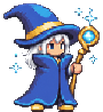
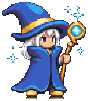
Add files via upload

diff --git a/js/arena.js b/js/arena.js
@@ -7,8 +7,8 @@ function arena(){if(arenaOn)return;arenaOn=true;load3(function(){
  var W=384,H=216,R;try{R=new THREE.WebGLRenderer({canvas:$("bcv"),antialias:false})}catch(e){$("bfb").hidden=false;$("bcv").hidden=true;return}
  R.setPixelRatio(1);R.setSize(W,H,false);R.setClearColor(0x05050f);R.autoClear=false;
  var sc=new THREE.Scene(),cam=new THREE.PerspectiveCamera(36,W/H,.1,100);cam.position.set(0,2.4,14);cam.lookAt(0,2.4,0);
- var TL=new THREE.TextureLoader(),T={},keys=["ruins","sheetKnight","sheetMage","sheetRanger","sheetRogue","dragon","dragon2"],left=keys.length;
- keys.forEach(function(k){TL.load(IMG[k],function(t){t.magFilter=t.minFilter=THREE.NearestFilter;t.generateMipmaps=false;T[k]=t;if(--left==0)go()})});
+ var TL=new THREE.TextureLoader(),T={},keys=["ruins","knightS","mageS","rangerS","rogueS","dragon","dragon2"],left=keys.length;
+ keys.forEach(function(k){TL.load(IMG[k],function(t){t.magFilter=t.minFilter=THREE.NearestFilter;t.generateMipmaps=false;if(/S$/.test(k))t.repeat.set(1/3,1/3);T[k]=t;if(--left==0)go()})});
  function ct(fn,w,h){var c=document.createElement("canvas");c.width=w;c.height=h;fn(c.getContext("2d"),w,h);var t=new THREE.CanvasTexture(c);t.magFilter=t.minFilter=THREE.NearestFilter;return t}
  function plane(map,w,h,o){var m=new THREE.Mesh(new THREE.PlaneGeometry(w,h),new THREE.MeshBasicMaterial(Object.assign({map:map,transparent:true,alphaTest:.04,side:THREE.DoubleSide},o||{})));sc.add(m);return m}
  function sp(k,h){var im=T[k].image;return plane(T[k],h*im.width/im.height,h)}
@@ -19,19 +19,10 @@ function arena(){if(arenaOn)return;arenaOn=true;load3(function(){
   g1.position.set(4.5,1.2,-5.9);g2.position.set(1,-1,-5.9);
   var shT=ct(function(g,w,h){g.fillStyle="rgba(0,0,0,.55)";g.beginPath();g.ellipse(w/2,h/2,w/2-1,h/2-1,0,0,6.3);g.fill()},32,8);
   var hsh=plane(shT,3,.7),dsh=plane(shT,6,1.1);
-  var HX=-3.6,DX=3.8,DY=2.1,FL=-1.2,HH={knight:3.6,mage:3.2,ranger:3.6,rogue:3.4},hs={};
-  /* Heroes: every hero is one 256px frame of a 3x3 sprite sheet (assets/images/sheet-*.png) drawn onto a canvas texture.
-     feet / top / cx = where the character stands inside a frame (pixels). flip = the sheet faces left, so mirror it. */
-  var HERO={knight:{sheet:"sheetKnight",feet:227,top:138,cx:126.5,flip:1},mage:{sheet:"sheetMage",feet:209,top:116,cx:126.5},
-   ranger:{sheet:"sheetRanger",feet:210,top:128,cx:128.5},rogue:{sheet:"sheetRogue",feet:211,top:110,cx:128.5}};
-  function drawFrame(k,f){var H=HERO[k];if(H.f===f)return;H.f=f;var g=H.g;g.clearRect(0,0,256,256);g.save();if(H.flip){g.translate(256,0);g.scale(-1,1)}
-   g.drawImage(H.img,(f%3)*256,Math.floor(f/3)*256,256,H.feet+2,0,0,256,H.feet+2);g.restore();H.tex.needsUpdate=true}   /* rows below the feet (a mirror reflection in the art) are left out */
-  function pxY(k,r){return FL+(HERO[k].feet-r)*HERO[k].s}            /* world height of a pixel row in a frame */
-  function pxX(k,x,hx){return hx+(x-HERO[k].cx)*HERO[k].s}           /* world x of a pixel column when the hero stands at hx */
-  Object.keys(HERO).forEach(function(k){var H=HERO[k],c=document.createElement("canvas");c.width=c.height=256;H.g=c.getContext("2d");H.img=T[H.sheet].image;
-   H.tex=new THREE.CanvasTexture(c);H.tex.magFilter=H.tex.minFilter=THREE.NearestFilter;H.tex.generateMipmaps=false;
-   H.s=HH[k]/(H.feet-H.top);H.ox=(128-H.cx)*H.s;H.oy=((H.feet+H.top)/2-128)*H.s;H.f=-1;
-   hs[k]=plane(H.tex,256*H.s,256*H.s);hs[k].visible=false;drawFrame(k,0)});
+  var HX=-4.2,DX=3.8,DY=2.1,FL=-1.2,HH={knight:3.6,mage:3.2,ranger:3.6,rogue:3.4},hs={};
+  /* Heroes are 3x3 sprite sheets (9 attack frames, effects drawn in). CS = [character px height, centre x, feet y] inside one 256px cell, so the feet land on the floor. */
+  var CS={knight:[90,128,228],mage:[97,126,213],ranger:[85,128,213],rogue:[104,128,214]},PO={};
+  ["knight","mage","ranger","rogue"].forEach(function(k){var c=CS[k],Z=HH[k]*256/c[0];hs[k]=plane(T[k+"S"],Z,Z);hs[k].visible=false;PO[k]={x:(128-c[1])/256*Z,y:(c[2]-128)/256*Z-HH[k]/2}});
   var dragon=sp("dragon",5.6);dragon.scale.x=-1;
   var dragon2=sp("dragon2",6.3);dragon2.visible=false;
   var D=dragon,ph=1,pend=0,pat=0,intro=0,flash=0,nextAmb=0,fail=0,MP={x:0,y:0},HP={x:0,y:0},BL=[],nextPaint=0,lastAny=false;
@@ -56,60 +47,46 @@ function arena(){if(arenaOn)return;arenaOn=true;load3(function(){
   function sky(now,x,delay,fl){var x0=x==null?40+Math.random()*300:x,a=[x0,0],b=[x0+(Math.random()-.5)*90,150+Math.random()*40],d=delay||0;
    BL.push({t0:now+d,end:now+d+230,a:function(){return a},b:function(){return b},w:3,j:16,fk:1,fl:fl==null?.5:fl})}
   var chg=plane(rad("#a5f3fc"),1.8,1.8,{blending:THREE.AdditiveBlending,depthWrite:false});chg.visible=false;
-  var fire=plane(rad("#ff6a1a"),2,2,{blending:THREE.AdditiveBlending,depthWrite:false});
-  /* The attack art already contains each hero's effect, but it stops at the frame edge. These projectiles are crops of the same sheet
-     that carry the effect on to the dragon: f = sheet frame, c = crop [x,y,w,h], cy = pixel row it flies along, sx = start column,
-     t0 / t1 = take-off and landing time, y1 = world height it lands at (omit = straight), dy = extra height, sc = size. */
-  var EXT={mage:[{f:6,c:[180,116,74,30],cy:131,sx:251,t0:.66,t1:.8}],
-   rogue:[{f:4,c:[186,128,70,24],cy:140,sx:255,t0:.4,t1:.56},{f:4,c:[186,128,70,24],cy:140,sx:255,t0:.46,t1:.62,dy:.6,sc:.8}],
-   ranger:[{f:6,c:[188,166,66,10],cy:171,sx:215,t0:.68,t1:.8,y1:1.4,sc:1.4},{f:6,c:[188,166,66,10],cy:171,sx:215,t0:.72,t1:.86,y1:2.2,sc:1.4}]},exs={};
-  Object.keys(EXT).forEach(function(k){var H=HERO[k];exs[k]=EXT[k].map(function(E){var m=plane(ct(function(g){g.drawImage(H.img,(E.f%3)*256+E.c[0],Math.floor(E.f/3)*256+E.c[1],E.c[2],E.c[3],0,0,E.c[2],E.c[3])},E.c[2],E.c[3]),E.c[2]*H.s,E.c[3]*H.s);m.visible=false;return m})});
-  function hideExt(){for(var k in exs)exs[k].forEach(function(m){m.visible=false})}
-  var hero=hs.knight,hy=FL+HH.knight/2,curC="knight",hoX=0,hoY=0;
-  function setCls(c){if(!hs[c])c="knight";hero.visible=false;hero=hs[c];hero.visible=true;hy=FL+HH[c]/2;curC=c;hero.material.opacity=1;hero.rotation.z=0;hoX=HERO[c].ox;hoY=HERO[c].oy;drawFrame(c,0)}
+  var orb=plane(rad("#7dd3fc"),1.4,1.4,{blending:THREE.AdditiveBlending,depthWrite:false}),fire=plane(rad("#ff6a1a"),2,2,{blending:THREE.AdditiveBlending,depthWrite:false});
+  var arrow=plane(ct(function(g){g.fillStyle="#e6d3a3";g.fillRect(0,3,22,2);g.fillStyle="#cbd5e1";g.fillRect(22,1,2,6);g.fillRect(24,2,2,4);g.fillRect(26,3,2,2);g.fillStyle="#7a4dff";g.fillRect(0,1,3,6)},28,8),1.8,.5);
+  var dag=plane(ct(function(g){g.fillStyle="#cfe9ff";g.fillRect(1,6,10,3);g.fillStyle="#8fb4d8";g.fillRect(1,8,10,1);g.fillStyle="#6b4a2a";g.fillRect(11,5,3,5);g.fillStyle="#ffd23f";g.fillRect(10,4,1,7)},16,16),1.3,1.3);
+  var hero=hs.knight,hy=FL+HH.knight/2,curC="knight";
+  function setCls(c){if(!hs[c])c="knight";hero.visible=false;hero=hs[c];hero.visible=true;hy=FL+HH[c]/2;curC=c;hero.material.opacity=1;hero.rotation.z=0}
   setCls(S.cls||"knight");F.cls=setCls;
   var sparks=[];function burst(x,y,col,n){for(var i=0;i<n;i++){var m=new THREE.Mesh(new THREE.PlaneGeometry(.2,.2),new THREE.MeshBasicMaterial({color:col,transparent:true}));m.position.set(x,y,1.5);m.userData={vx:(Math.random()-.3)*6,vy:Math.random()*5+1,t:performance.now()};sc.add(m);sparks.push(m)}}
-  /* Each hero's attack: d = seconds each of the 9 frames is shown, ti = when a hit lands, tm / mf = when and after which frame a miss fizzles,
-     rel = release moment (small recoil), shk / fl = screen shake and flash on impact, c1 c2 n1 n2 = impact spark colours and counts. */
-  var ATK={knight:{d:[.08,.1,.1,.1,.16,.1,.1,.1,.12],ti:.42,tm:.4,mf:3,iy:1.9,shk:.45,fl:.2,c1:0x67e8f9,c2:0xffffff,n1:18,n2:10},
-   mage:{d:[.1,.1,.12,.12,.12,.1,.1,.1,.1],ti:.8,tm:.58,mf:4,rel:.56,iy:1.55,shk:.3,fl:.25,c1:0x7dd3fc,c2:0xffffff,n1:18,n2:12},
-   ranger:{d:[.1,.1,.1,.12,.12,.12,.1,.1,.1],ti:.8,tm:.68,mf:5,rel:.66,iy:1.1,v:.06,shk:.25,fl:.08,c1:0xe6d3a3,c2:0x8fd16a,n1:12,n2:8},
-   rogue:{d:[.1,.1,.1,.1,.1,.1,.1,.1,.1],ti:.56,tm:.22,mf:1,rel:.2,iy:1.35,v:.06,shk:.3,fl:.12,c1:0xcfe9ff,c2:0x8fb4d8,n1:14,n2:8}};
-  function frameAt(A,k,hit){var lim=hit?9:A.mf+1,acc=0;for(var q=0;q<lim;q++){acc+=A.d[q];if(k<acc)return q}return 0}
-  var act=null,dead=0,down=0,wt=0,lt=0,last=performance.now();
+  var TI={knight:.35,mage:.65,ranger:.65,rogue:.5},ST={mage:.375,ranger:.45,rogue:.15},FD=.075,act=null,dead=0,down=0,wt=0,lt=0,last=performance.now();
   F.atk=function(h){act={t:performance.now(),hit:h,c:curC}};F.win=function(){dead=1;wt=performance.now();burst(DX,DY,0xffd23f,26)};F.lose=function(){down=1;lt=performance.now()};
   F.phase2=function(){if(dead)return;dead=1;wt=performance.now();burst(DX,DY,0xffd23f,26);pend=1;pat=wt+1100};
   F.reset=function(){dead=0;down=0;act=null;pend=0;intro=0;flash=0;BL.length=0;nextAmb=0;dragon.visible=ph==1;dragon2.visible=ph==2;D=ph==1?dragon:dragon2;D.rotation.z=0;D.material.opacity=1;hero.rotation.z=0;hero.material.opacity=1};
   F.setPhase=function(p){ph=p;F.reset()};
   function loop(now){requestAnimationFrame(loop);if(!$("boss").classList.contains("show")){last=now;return}
    var dt=Math.min(.05,(now-last)/1000),s=now/1000;last=now;
-   var hx=HX,dx=DX,dy=DY+Math.sin(s*1.6)*.25,hf=0,df=0,shake=0,af=0;var pop=1;hero.position.y=hy+hoY+Math.abs(Math.sin(s*2.4))*.05;
-   fire.visible=chg.visible=false;hideExt();
+   var hx=HX,dx=DX,dy=DY+Math.sin(s*1.6)*.25,hf=0,df=0,shake=0;var pop=1;hero.position.y=hy+PO[curC].y+Math.abs(Math.sin(s*2.4))*.05;
+   orb.visible=arrow.visible=fire.visible=dag.visible=chg.visible=false;
    if(pend&&now>=pat){pend=0;ph=2;dragon.visible=false;dragon.rotation.z=0;D=dragon2;D.visible=true;D.rotation.z=0;D.material.opacity=0;dead=0;intro=now;sky(now,80,0,.8);sky(now,200,160,.6);sky(now,310,320,.8);burst(DX,DY,0x7dd3fc,24)}
    if(intro){var qi=(now-intro)/1000;if(qi>=1.3){intro=0;D.material.opacity=1}else{var ie=Math.min(1,qi/.7);D.material.opacity=ie;pop=.82+.18*ie;if(qi<.7)shake=.3}}
    if(ph==2&&!intro&&!dead&&!pend){if(!nextAmb)nextAmb=now+2500;if(now>nextAmb){nextAmb=now+3500+Math.random()*3500;sky(now,null,0,.28)}}
    D.scale.x=(D===dragon?-1:1)*pop;D.scale.y=pop*(1+Math.sin(s*3.2)*.025);
-   if(act){var k=(now-act.t)/1000,c=act.c,A=ATK[c],hit=act.hit,ti=hit?A.ti:A.tm,tx=DX-(ph==2?1.5:1.9),ty=DY-(ph==2?.6:.3),p;
-    af=frameAt(A,k,hit);
-    if(c=="knight"){var d=hit?(k<.08?0:k<.38?(k-.08)/.3:k<.66?1:k<1.04?1-(k-.66)/.38:0):(k<.08?0:k<.38?.35*(k-.08)/.3:k<.5?.35:k<.8?.35*(1-(k-.5)/.3):0);hx=HX+4.6*d}
-    else if(hit&&k>A.rel&&k<A.rel+.2)hx=HX-.3*Math.sin((k-A.rel)/.2*Math.PI);
-    if(hit&&exs[c])EXT[c].forEach(function(E,i){if(k<E.t0||k>E.t1+.1)return;var H=HERO[c],pp=Math.min(1,(k-E.t0)/(E.t1-E.t0)),w=E.c[2]*H.s*(E.sc||1),x0=pxX(c,E.sx,HX),x1=tx+.5,y0=pxY(c,E.cy)+(E.dy||0),y1=E.y1===undefined?y0:E.y1,m=exs[c][i];
-     m.visible=true;m.scale.x=m.scale.y=E.sc||1;m.position.set(x0+(x1-x0)*pp-w/2*Math.cos(Math.atan2(y1-y0,x1-x0)),y0+(y1-y0)*pp,1);m.rotation.z=Math.atan2(y1-y0,x1-x0);m.material.opacity=k>E.t1?Math.max(0,1-(k-E.t1)/.1):1});
-    if(!hit&&k>=A.tm&&!act.fz){act.fz=1;burst(HX+1.7,hy+.4,A.c1,8);burst(HX+1.7,hy+.4,0xffffff,4)}
-    if(hit&&k>=ti){var q=k-ti;if(!act.f1){act.f1=1;burst(tx+.8,A.iy,A.c1,A.n1);burst(tx+.8,A.iy,A.c2,A.n2);flash=Math.max(flash,A.fl)}if(A.v&&k>=ti+A.v&&!act.f4){act.f4=1;burst(tx+.9,A.iy+.5,A.c2,A.n2);burst(tx+.9,A.iy+.5,A.c1,6)}if(q<.25){df=1;dx=DX+.6*Math.sin(q/.25*Math.PI);shake=A.shk}}
+   if(act){var k=(now-act.t)/1000,c=act.c,ti=TI[c],hit=act.hit,tx=DX-(ph==2?1.5:1.9),ty=DY-(ph==2?.6:.3),p;
+    if(c=="knight"){var d=k<.3?k/.3:k<.55?1:k<1?1-(k-.55)/.45:0;hx=HX+5.2*d}else if(k<.25)hx=HX-.35*Math.sin(k/.25*Math.PI);
+    if(c=="mage"&&k>ST.mage&&k<ti){p=(k-ST.mage)/(ti-ST.mage);if(hit||p<.6){orb.visible=true;orb.position.set(HX+1.4+(tx-HX-1.4)*p,hy+.6+(ty-hy-.6)*p,1);orb.scale.setScalar(1+Math.sin(k*40)*.15)}}
+    if(c=="ranger"&&k>ST.ranger&&k<ti){p=(k-ST.ranger)/(ti-ST.ranger);if(hit||p<.6){arrow.visible=true;arrow.position.set(HX+1.4+(tx-HX-1.4)*p,hy+.9+(ty-hy-.9)*p+Math.sin(p*Math.PI)*.9,1);arrow.rotation.z=.35-p*.7}}
+    if(c=="rogue"&&k>ST.rogue&&k<ti){p=(k-ST.rogue)/(ti-ST.rogue);if(hit||p<.6){dag.visible=true;dag.position.set(HX+1.2+(tx-HX-1.2)*p,hy+.9+(ty-hy-.9)*p+Math.sin(p*Math.PI)*.5,1);dag.rotation.z=-k*38}}
+        if(hit&&k>=ti){var q=k-ti;if(!act.f1){act.f1=1;burst(tx+1,DY,0xffffff,14);burst(tx+1,DY,{knight:0x5eead4,mage:0x60a5fa,ranger:0x86efac,rogue:0xc4b5fd}[c],10)}if(q<.25){df=1;dx=DX+.6*Math.sin(q/.25*Math.PI);shake=.25}}
     if(!hit&&k>=ti&&ph==2){var q6=k-ti;dx=DX-.9*Math.sin(Math.min(1,q6/.55)*Math.PI);
      if(q6<.4){chg.visible=true;chg.position.set(dx-1.5,dy-1.8,1.2);chg.scale.setScalar(.4+q6*3+Math.sin(q6*70)*.12);
       var cn=(q6/.09)|0;if(act.cn!==cn){act.cn=cn;var an2=Math.random()*6.283,ln2=20+Math.random()*26;BL.push({t0:now,end:now+95,a:function(){return scr(MP.x,MP.y)},b:(function(a,l){return function(){var m=scr(MP.x,MP.y);return[m[0]+Math.cos(a)*l,m[1]+Math.sin(a)*l]}})(an2,ln2),w:2,j:4})}}
      if(q6>=.4&&q6<.85){if(!act.f3){act.f3=1;BL.push({t0:now,end:now+420,a:function(){return scr(MP.x,MP.y)},b:function(){return scr(HP.x,HP.y)},w:3,j:11,fk:1,fl:.6})}
       hf=2;hx+=(Math.random()-.5)*.22;shake=.4;if(!act.f2){act.f2=1;burst(HX+.5,hy,0x7dd3fc,14);burst(HX+.5,hy,0xffffff,8)}}}
-    else if(!hit&&k>=ti){var q2=k-ti;dx=DX-3.7*Math.sin(Math.min(1,q2/.6)*Math.PI);
+    else if(!hit&&k>=ti){var q2=k-ti;dx=DX-4.2*Math.sin(Math.min(1,q2/.6)*Math.PI);
      if(q2>.12&&q2<.5){var f=(q2-.12)/.38;fire.visible=true;fire.position.set(dx-1.8+(HX+1.2-dx+1.8)*f,DY-.8+(hy-DY+.8)*f,1.2);fire.scale.setScalar(1+Math.sin(q2*50)*.2)}
      if(q2>.45&&q2<.85){hf=1;hx-=.5*Math.sin((q2-.45)/.4*Math.PI);shake=.35;if(!act.f2){act.f2=1;burst(HX+.5,hy,0xff6a1a,16)}}}
     if(k>1.5)act=null}
+   var fi=act&&k<FD*9?k/FD|0:0;hero.material.map.offset.set(fi%3/3,(2-(fi/3|0))/3);
    if(dead){var q3=Math.min(1,(now-wt)/1000);D.rotation.z=-q3*1.2;dy=DY-q3*2.2;D.material.opacity=1-q3*.85}
    if(down){var q4=Math.min(1,(now-lt)/500);hero.rotation.z=-q4*1.4;hero.material.opacity=1-q4*.5}
    if(hf==2)hero.material.color.setRGB(1.8,2.6,3.2);else hero.material.color.setRGB(hf?3:1,hf?.35:1,hf?.35:1);D.material.color.setRGB(df?3:1,df?3:1,df?3:1);
-   drawFrame(curC,af);hero.position.x=hx+hoX;D.position.set(dx,dy,0);hsh.position.set(hx,FL-.1,.1);dsh.position.set(dx,FL-.15,.1);dsh.scale.x=1-(dy-DY)*.1;
+   hero.position.x=hx+PO[curC].x;D.position.set(dx,dy,0);hsh.position.set(hx,FL-.1,.1);dsh.position.set(dx,FL-.15,.1);dsh.scale.x=1-(dy-DY)*.1;
    for(var i=sparks.length-1;i>=0;i--){var m=sparks[i],u=m.userData,age=(now-u.t)/1000;u.vy-=14*dt;m.position.x+=u.vx*dt;m.position.y+=u.vy*dt;m.material.opacity=Math.max(0,1-age/.7);if(age>.7){sc.remove(m);m.geometry.dispose();m.material.dispose();sparks.splice(i,1)}}
    g1.material.opacity=.3+Math.sin(s*2)*.06+Math.random()*.02;g2.material.opacity=.2+Math.sin(s*3+2)*.05+Math.random()*.02;
    MP.x=dx-1.5;MP.y=dy-1.8;HP.x=hx;HP.y=hy+.5;flash=Math.max(0,flash-dt*2.6);fq.material.opacity=Math.min(1,flash);paint(now);

diff --git a/index.html b/index.html
@@ -128,10 +128,10 @@
 <!-- Team: same look as the Contact page team cards. -->
 <section class="sec ab-team"><div class="wrap"><h2>The team</h2><p class="lead">Two teams, one goal: make coding easy.</p>
 <div class="cards v4 team" style="margin-top:32px">
-<article class="card tm2"><div class="av"><span class="sprite sp-nhi" role="img" aria-label="Pixel character of Hoàng Nhi"></span></div><span class="rl lead-r">Team leader</span><h3>Hoàng Nhi</h3><p>Website Design Team</p></article>
-<article class="card tm2"><div class="av"><span class="sprite sp-hung" role="img" aria-label="Pixel character of Khánh Hưng"></span></div><span class="rl">QA · Member</span><h3>Khánh Hưng</h3><p>Website Design Team</p></article>
-<article class="card tm2"><div class="av"><span class="sprite sp-vinh" role="img" aria-label="Pixel character of Lê Vinh"></span></div><span class="rl lead-r">Team leader</span><h3>Lê Vinh</h3><p>Web Dev Team</p></article>
-<article class="card tm2"><div class="av"><span class="sprite sp-quy" role="img" aria-label="Pixel character of Vĩnh Quý"></span></div><span class="rl">Member</span><h3>Vĩnh Quý</h3><p>Math Solving Team</p></article>
+<article class="card tm2"><div class="av"><img src="assets/images/avatar-nhi.png?v=2" width="96" height="96" alt="Avatar of Hoàng Nhi" loading="lazy"></div><span class="rl lead-r">Team leader</span><h3>Hoàng Nhi</h3><p>Website Design Team</p></article>
+<article class="card tm2"><div class="av"><img src="assets/images/avatar-hung.png?v=2" width="96" height="96" alt="Avatar of Khánh Hưng" loading="lazy"></div><span class="rl">QA · Member</span><h3>Khánh Hưng</h3><p>Website Design Team</p></article>
+<article class="card tm2"><div class="av"><img src="assets/images/avatar-vinh.png?v=2" width="96" height="96" alt="Avatar of Lê Vinh" loading="lazy"></div><span class="rl lead-r">Team leader</span><h3>Lê Vinh</h3><p>Web Dev Team</p></article>
+<article class="card tm2"><div class="av"><img src="assets/images/avatar-quy.png?v=2" width="96" height="96" alt="Avatar of Vĩnh Quý" loading="lazy"></div><span class="rl">Member</span><h3>Vĩnh Quý</h3><p>Math Solving Team</p></article>
 </div>
 </div></section>
 
@@ -209,10 +209,10 @@
 <div class="pg" id="contact">
 <section class="sec"><div class="wrap"><h2>The team</h2><p class="lead">Two teams, one goal: make coding easy.</p>
 <div class="cards v4 team" style="margin-top:32px">
-<article class="card tm2"><div class="av"><span class="sprite sp-nhi" role="img" aria-label="Pixel character of Hoàng Nhi"></span></div><span class="rl lead-r">Team leader</span><h3>Hoàng Nhi</h3><p>Website Design Team</p></article>
-<article class="card tm2"><div class="av"><span class="sprite sp-hung" role="img" aria-label="Pixel character of Khánh Hưng"></span></div><span class="rl">QA · Member</span><h3>Khánh Hưng</h3><p>Website Design Team</p></article>
-<article class="card tm2"><div class="av"><span class="sprite sp-vinh" role="img" aria-label="Pixel character of Lê Vinh"></span></div><span class="rl lead-r">Team leader</span><h3>Lê Vinh</h3><p>Math Solving Team</p></article>
-<article class="card tm2"><div class="av"><span class="sprite sp-quy" role="img" aria-label="Pixel character of Vĩnh Quý"></span></div><span class="rl">Member</span><h3>Vĩnh Quý</h3><p>Math Solving Team</p></article>
+<article class="card tm2"><div class="av"><img src="assets/images/avatar-nhi.png?v=2" width="96" height="96" alt="Avatar of Hoàng Nhi"></div><span class="rl lead-r">Team leader</span><h3>Hoàng Nhi</h3><p>Website Design Team</p></article>
+<article class="card tm2"><div class="av"><img src="assets/images/avatar-hung.png?v=2" width="96" height="96" alt="Avatar of Khánh Hưng"></div><span class="rl">QA · Member</span><h3>Khánh Hưng</h3><p>Website Design Team</p></article>
+<article class="card tm2"><div class="av"><img src="assets/images/avatar-vinh.png?v=2" width="96" height="96" alt="Avatar of Lê Vinh"></div><span class="rl lead-r">Team leader</span><h3>Lê Vinh</h3><p>Math Solving Team</p></article>
+<article class="card tm2"><div class="av"><img src="assets/images/avatar-quy.png?v=2" width="96" height="96" alt="Avatar of Vĩnh Quý"></div><span class="rl">Member</span><h3>Vĩnh Quý</h3><p>Math Solving Team</p></article>
 </div>
 <div class="two" style="margin-top:36px;align-items:start"><div><h2>Contact us</h2><p class="lead">Questions or ideas? Send us a note.</p></div>
 <form id="cf" style="margin-top:0"><label>Name<input required autocomplete="name"></label><label>Email<input type="email" required autocomplete="email"></label>
@@ -308,7 +308,7 @@
 <script>(function(){var f=document.getElementById("easyVideo"),v=f&&f.querySelector("video");if(!v)return;v.addEventListener("loadeddata",function(){f.classList.add("has")});v.addEventListener("error",function(){f.classList.remove("has")},true)})();</script>
 <script src="js/loader.js?v=3"></script>
 <script src="js/ui.js?v=3"></script>
-<script src="js/images.js?v=3"></script>
+<script src="js/images.js?v=4"></script>
 <script src="js/core.js?v=3"></script>
 <script src="js/python.js?v=3"></script>
 <script src="js/lessons-data.js?v=3"></script>
@@ -316,7 +316,7 @@
 <script src="js/course.js?v=3"></script>
 <script src="js/dashboard.js?v=4"></script>
 <script src="js/boss.js?v=4"></script>
-<script src="js/arena.js?v=3"></script>
+<script src="js/arena.js?v=4"></script>
 <script src="js/dock.js?v=3"></script>
 <script src="js/router.js?v=4"></script>
 <script src="js/about.js?v=4"></script>

diff --git a/css/contact.css b/css/contact.css
@@ -10,18 +10,10 @@
 
 /* Team cards: avatars, role badge, names (VT323 supports Vietnamese letters) */
 .team .tm2{padding:22px 16px 24px}
-.tm2 .av{width:132px;height:144px;margin:0 auto 14px;border:3px solid var(--line);background:var(--card);display:grid;place-items:end center;overflow:hidden}
+.tm2 .av{width:96px;height:96px;margin:0 auto 14px;border:3px solid var(--line);background:var(--card)}
+.tm2 .av img{border:0}
 .tm2 h3{font:400 21px/1.25 var(--mono);text-transform:none;letter-spacing:.02em;margin:8px 0 4px}
 .tm2 p{font:400 18px/1.4 var(--mono);color:var(--mu)}
 .rl{display:inline-block;font:400 14px var(--mono);letter-spacing:.08em;text-transform:uppercase;padding:3px 9px;color:#fff;background:var(--blue)}
 .rl.lead-r{background:var(--gold);color:var(--ink)}
 .team + .two{margin-top:72px!important}
-
-/* Team characters: 9-frame idle strips (assets/images/team-*.png). --sw/--sh = one frame's size on screen. */
-.sprite{display:block;width:var(--sw);height:var(--sh);margin-bottom:6px;background-repeat:no-repeat;background-size:calc(var(--sw)*9) var(--sh);animation:teamIdle 1.1s steps(9) infinite}
-@keyframes teamIdle{to{background-position-x:calc(var(--sw)*-9)}}
-@media(prefers-reduced-motion:reduce){.sprite{animation:none}}
-.sp-nhi{--sw:88px;--sh:115px;background-image:url(../assets/images/team-nhi.png)}
-.sp-hung{--sw:73px;--sh:126px;background-image:url(../assets/images/team-hung.png)}
-.sp-vinh{--sw:80px;--sh:125px;background-image:url(../assets/images/team-vinh.png)}
-.sp-quy{--sw:59px;--sh:117px;background-image:url(../assets/images/team-quy.png)}

diff --git a/js/images.js b/js/images.js
@@ -1,18 +1,14 @@
 /* Image paths. <img data-k="key"> elements get their src from here. */
 var IMG={
   door:"assets/images/door.png",
-  rogue:"assets/images/rogue.png",
+  rogue:"assets/images/rogue.png?v=2",
+  knightS:"assets/images/knight-sheet.png",mageS:"assets/images/mage-sheet.png",rangerS:"assets/images/ranger-sheet.png",rogueS:"assets/images/rogue-sheet.png",
   ruins:"assets/images/ruins.jpg",
   arches:"assets/images/arches.png",
   mapA:"assets/images/mapA.jpg",
-  knight:"assets/images/knight.png",
-  mage:"assets/images/mage.png",
-  ranger:"assets/images/ranger.png",
+  knight:"assets/images/knight.png?v=2",
+  mage:"assets/images/mage.png?v=2",
+  ranger:"assets/images/ranger.png?v=2",
   dragon:"assets/images/dragon.png",
-  dragon2:"assets/images/dragon2.png",
-  /* hero attack sprite sheets: 3x3 frames of 256px each */
-  sheetKnight:"assets/images/sheet-knight.png",
-  sheetMage:"assets/images/sheet-mage.png",
-  sheetRanger:"assets/images/sheet-ranger.png",
-  sheetRogue:"assets/images/sheet-rogue.png"};
+  dragon2:"assets/images/dragon2.png"};
 document.querySelectorAll("img[data-k]").forEach(function(i){i.src=IMG[i.dataset.k]});

diff --git a/tests/sheets.test.js b/tests/sheets.test.js
@@ -1,0 +1,13 @@
+// node tests/sheets.test.js - hero sprite sheets are 768x768 (3x3 cells of 256px) and the UV offset used in arena.js picks the right cell
+const fs = require("fs"), assert = require("assert");
+for (const k of ["knight", "mage", "ranger", "rogue"]) {
+  const b = fs.readFileSync(`assets/images/${k}-sheet.png`);
+  assert.strictEqual(b.readUInt32BE(16) + "x" + b.readUInt32BE(20), "768x768", k + " sheet size");
+}
+const uv = fi => [fi % 3 / 3, (2 - (fi / 3 | 0)) / 3];                       // same expression as arena.js
+const cell = fi => { const [u, v] = uv(fi); return [Math.round(u * 768), Math.round((1 - v - 1 / 3) * 768)]; }; // top-left px of the cell
+assert.deepStrictEqual(cell(0), [0, 0]);
+assert.deepStrictEqual(cell(4), [256, 256]);
+assert.deepStrictEqual(cell(8), [512, 512]);
+assert.deepStrictEqual(cell(5), [512, 256]);
+console.log("sheets ok");

diff --git a/css/boss.css b/css/boss.css
@@ -60,6 +60,3 @@
 .cls button{min-width:0}
 @media(max-width:400px){.cls{gap:6px}.cls button{padding:6px 2px;font-size:15px}.cls small{display:none}.cls img{max-width:100%}}
 #sb{display:block;background:transparent;border:0;color:inherit;font:inherit;line-height:1.6;min-height:200px;padding:16px;resize:vertical;outline:0;margin:0}
-
-/* Hero picker: portraits come from the character sprite sheets (stored at 2x, shown at 56px) */
-.cls button img{height:56px;image-rendering:auto}

diff --git a/README.md b/README.md
@@ -10,37 +10,21 @@ Learn Python like you learn a language: a pixel-dungeon learning path with a Pyt
 ## Folder structure
 
 ```
-index.html            all pages (Home, About, Learning path, Boss, Contact, Community, Dashboard, Login)
-css/                  one file per page or area: tokens, base, header, home, about*, course, boss, contact, community, dashboard, result ...
-js/
-  core.js, python.js  shared helpers, tiny Python interpreter
-  lessons-data.js     lesson text and quizzes
-  map.js, course.js   learning path map and lesson page
-  boss.js             boss quest: PHASES (tests, starter code, hints), attack button, result hooks
-  arena.js            3D boss arena: heroes, dragons, attack animations and effects
-  images.js           list of image paths used by the scripts
-  result.js           win / lose screens and the cutscene
-  account.js, config.js   login and saved progress (see "Accounts and database")
-  ...                 ui, router, dock, loader, snow, about, community, dashboard
-assets/images/        pictures, sprite sheets, team strips
-assets/video/         boss cutscene
-supabase/             database setup
+bytecrawler/
+├── index.html            # all pages (Home, About, Learning path, Boss, Contact, Community, Dashboard)
+├── css/
+│   └── style.css         # all styles
+├── js/
+│   ├── ui.js             # theme toggle, menus, contact form
+│   ├── app.js            # lessons, map, Python guide snake, boss fight, dashboard, tiny Python interpreter
+│   └── community.js      # Reddit-style community tab
+├── assets/
+│   ├── favicon.svg
+│   └── images/           # map, heroes, boss, backgrounds
+├── .nojekyll             # tells GitHub Pages to serve files as-is
+├── .gitignore
+└── README.md
 ```
-
-`js/app.js` and `css/style.css` are old all-in-one copies that `index.html` no longer loads. Edit the files above instead.
-
-## Characters
-
-**Boss-room heroes** (Knight, Wizard, Archer, Assassin). Each hero is a sprite sheet: `assets/images/sheet-knight.png`, `sheet-mage.png`, `sheet-ranger.png`, `sheet-rogue.png`. A sheet is 3 x 3 frames of 256 px that tell one attack, with the effect drawn into the frames. `knight.png`, `mage.png`, `ranger.png` and `rogue.png` are the small portraits in the hero picker.
-
-Their attacks live in `js/arena.js`:
-
-- `HERO` says where the character stands in a frame (`feet`, `top`, `cx`) so every hero is drawn at the same size. A sheet that faces left gets `flip:1`.
-- `ATK` is the timing of each attack: how long each of the 9 frames is shown (`d`), when a hit lands (`ti`), where a miss gives up (`tm`, `mf`), plus screen shake, flash and spark colours.
-- `EXT` lists the extra projectiles that carry the baked-in effect on to the dragon (wizard beam, two assassin blade waves, two extra archer arrows). They are crops of the same sheet.
-- To change a hero, replace its `sheet-*.png` with a new 3 x 3 sheet and adjust its `HERO` and `ATK` rows. The hero ids (`knight`, `mage`, `ranger`, `rogue`) are saved in progress, so keep them.
-
-**Team** (About and Contact pages): `assets/images/team-nhi.png`, `team-hung.png`, `team-vinh.png`, `team-quy.png` are 9-frame idle strips. The animation and the on-screen size of each frame are in `css/contact.css` (`.sprite`, `.sp-nhi` and so on). Reduced-motion users see the first frame.
 
 ## Run it locally
 
@@ -96,7 +80,7 @@ All file paths are relative, so the site works from a sub-path like this, from a
 
 ## Notes
 
-- Boss fight: Phase 1 is the Wyrm; beat it and the Storm Wyrm (Phase 2) rises and hurls lightning whenever you miss a round. Edit `PHASES` in `js/boss.js` to change the rounds.
+- Boss fight: Phase 1 is the Wyrm; beat it and the Storm Wyrm (Phase 2) rises and hurls lightning whenever you miss a round. Edit `TESTS1` / `TESTS2` in `js/app.js` to change the rounds.
 - If you open `index.html` by double-clicking it, some browsers block the 3D arena textures. The page shows a message and the fight still works; use the local server above to see the arena.
 - Fonts (Google Fonts) and the 3D boss arena (three.js from cdnjs) load from CDNs, so visitors need an internet connection. The boss fight still works without the 3D arena.
 - Progress and community posts live in the browser tab only and reset on reload.
@@ -114,3 +98,8 @@ Files: `js/result.js`, `css/result.css`, overlay markup at the end of `index.htm
 - Boss timer starts at the first Attack and stops on the win or the fall (`BCEnd.start / win / lose` in `js/boss.js`).
 - Design review without fighting the boss: open `index.html?preview=win` or `?preview=lose` (or run `BCEnd.preview("win")` in the console).
 - Esc closes the result screen and returns to the boss room.
+
+
+## Hero sprites
+
+Boss-arena heroes (Knight, Wizard, Archer, Assassin) use `assets/images/*-sheet.png`: 768x768, 3x3 cells of 256px, 9 attack frames with the effect drawn in. Idle = frame 0. Timing (`FD`, `ST`, `TI`) and per-class feet/centre offsets (`CS`) are in `js/arena.js`. Team avatars are `assets/images/avatar-*.png`. Run `node tests/sheets.test.js` after changing a sheet.
